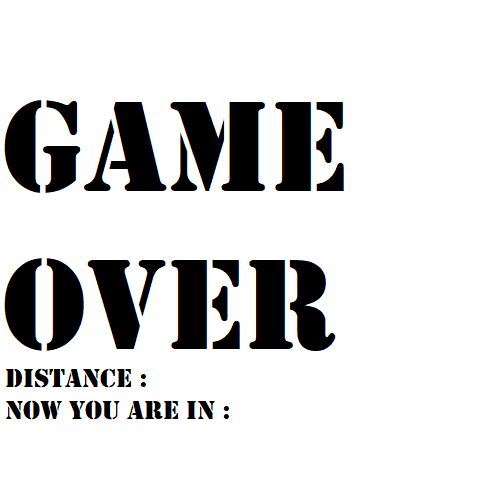
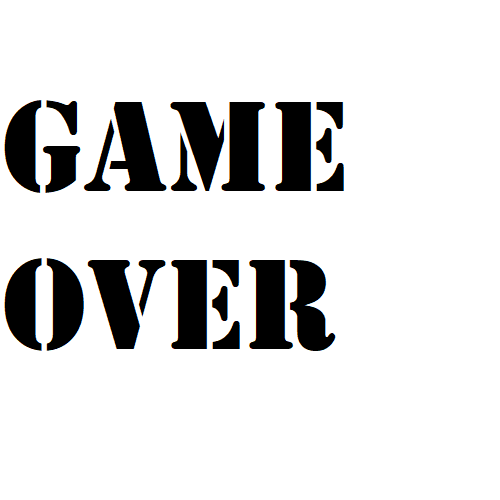
бомба

Changed region(s): [[0.0, 0.72, 0.48, 0.84]]

diff --git a/mane.py b/mane.py
@@ -56,15 +56,16 @@ class End(pygame.sprite.Sprite):
         self.rect = self.image.get_rect()
         self.rect.x = -600
         self.rect.y = 0
+        self.image.fill('white', (0, 360, 350, 150))
         font = pygame.font.Font('Australianflyingcorpsstencilsh.ttf', 30)
-        string_rendered = font.render(distance, True, pygame.Color('black'))
+        string_rendered = font.render('Distanse:' + distance, True, pygame.Color('black'))
         intro_rect = string_rendered.get_rect()
-        intro_rect.x = 154
+        intro_rect.x = 0
         intro_rect.y = 358
         self.image.blit(string_rendered, intro_rect)
-        string_rendered = font.render(str(dest), True, pygame.Color('black'))
+        string_rendered = font.render('City: ' + str(dest), True, pygame.Color('black'))
         intro_rect = string_rendered.get_rect()
-        intro_rect.x = 238
+        intro_rect.x = 0
         intro_rect.y = 401
         self.image.blit(string_rendered, intro_rect)
 
@@ -107,9 +108,6 @@ def running_preview():
     group_preview = pygame.sprite.Group()
     pygame.mixer.music.load('data/autro.mp3')
     pygame.mixer.music.play(-1)
-
-    play = SimpleButton(group_preview, 500, 290, 600, 100, pygame.Color('white'), text='play new')
-    save = SimpleButton(group_preview, 500, 400, 600, 100, pygame.Color('white'), text='return to last save')
     mimapbtn = SimpleButton(group_preview, 500, 510, 600, 100, pygame.Color('white'), text='minimap')
     quitq = SimpleButton(group_preview, 500, 620, 600, 100, pygame.Color('white'), text='quit')
     pygame.display.flip()
@@ -145,8 +143,6 @@ def running_preview():
         trucks.update()
         trucks.draw(screen)
         draw_(screen, 'Truck simulator', width, height, delta_frame=10, width_frame=10)
-        play.draw(screen)
-        save.draw(screen)
         mimapbtn.draw(screen)
         quitq.draw(screen)
         clock.tick(10)
@@ -161,12 +157,11 @@ def running_preview():
 def running_minimap():
     def start_screen():
         intro_text = ['Выберите начальную точку:',
-                      ' moscow: 1',
+                      'moscow: 1',
                       'kazan: 2',
                       'saratov: 3',
                       'samara: 4',
                       'tyla: 5', 'penza: 6', 'piter: 7']
-
         fon = pygame.transform.scale(load_image('fon.jpg'), (width, height))
         screen.blit(fon, (0, 0))
         font = pygame.font.Font(None, 30)
@@ -201,6 +196,7 @@ def running_minimap():
                         return '7'
             pygame.display.flip()
             time_count.tick(FPS)
+
     size = width, height = 550, 690
     screen = pygame.display.set_mode(size)
     pygame.display.set_caption('simulator truck')
@@ -217,12 +213,14 @@ def running_minimap():
     piter = SimpleButton(dest, 500, 425, 40, 25, pygame.Color('yellow'), text='Piter', font_size=10)
     dests = {1: moscow, 2: kazan, 3: saratov, 4: samara, 5: tyla, 6: penza, 7: piter}
     with open('data/dest.txt', encoding='UTF-8') as f1:
-        f = [int(i.strip()) for i in f1.readlines()]
+        f = [i.strip() for i in f1.readlines()]
         f1.close()
-    if run_the_first_time and not f:
+    if not (f[-1]):
+        current_destination = dests[int(start_screen())]
+    elif run_the_first_time and not f:
         current_destination = dests[int(start_screen())]
     else:
-        current_destination = dests[f[-1]]
+        current_destination = dests[int(f[-1])]
     connected_destinations = {moscow: (piter, penza, samara, kazan),
                               kazan: (saratov, moscow),
                               saratov: (kazan, samara),
@@ -286,7 +284,7 @@ def running_level(filename):
         'emptyF': load_image('grass_fin.png'),
         'rock': load_image('rock.png'),
         'lava': load_image('lava.png'),
-        'tree': load_image('tree.png', -1)
+        'tree': load_image('tree.jpg', -1)
     }
     player_image = load_image('truck1.png', -1)
 
@@ -294,6 +292,7 @@ def running_level(filename):
     all_sprites = pygame.sprite.Group()
     tiles_group = pygame.sprite.Group()
     player_group = pygame.sprite.Group()
+    bomb_group = pygame.sprite.Group()
 
     def start_screen():
         intro_text = ["ЗАСТАВКА", "",
@@ -340,7 +339,7 @@ def running_level(filename):
             for event_1 in pygame.event.get():
                 if event_1.type == pygame.QUIT:
                     runing = False
-                    return EXIT_FROM_GAME
+                    terminate()
                 if event_1.type == pygame.KEYDOWN:
                     if event_1.key == pygame.K_9:
                         pygame.mixer.music.pause()
@@ -372,6 +371,26 @@ def running_level(filename):
             val = ['.....' for _ in range(5)]
             val[0] = '@....'
             return val
+
+    class Bomb(pygame.sprite.Sprite):
+        image = load_image("bomb.png")
+        image_boom = load_image("boom.png")
+
+        def __init__(self, x, y, *group):
+            # НЕОБХОДИМО вызвать конструктор родительского класса Sprite.
+            # Это очень важно!!!
+            super().__init__(*group)
+            self.image = Bomb.image
+            self.rect = self.image.get_rect()
+            self.rect.x = x * tile_width
+            self.rect.y = y * tile_height
+
+        def update(self, *args):
+            if args and args[0].type == pygame.MOUSEBUTTONDOWN and \
+                    self.rect.collidepoint(args[0].pos):
+                self.image = self.image_boom
+            elif self.image != self.image_boom:
+                self.rect.y += 1
 
     class Tile(pygame.sprite.Sprite):
         def __init__(self, tile_type, pos_x, pos_y):
@@ -492,14 +511,15 @@ def running_level(filename):
                     finish_coord = (x, y)
                     Tile('emptyF', x, y)
                 elif level[y][x] == 'R':
+                    Tile('empty', x, y)
                     Tile('rock', x, y)
                 elif level[y][x] == 'T':
                     Tile('tree', x, y)
                 elif level[y][x] == '*':
                     Tile('lava', x, y)
                 elif level[y][x] == 'B':
-                    Bomb(x, y)
                     Tile('empty', x, y)
+                    Bomb(x, y, bomb_group, all_sprites)
                 else:
                     Tile('empty', x, y)
         # вернем игрока, а также размер поля в клетках
@@ -568,8 +588,10 @@ def running_level(filename):
             camera.update(level_x, level_y)
             for sprite in tiles_group:
                 camera.apply(sprite)
+            for sprite in bomb_group:
+                camera.apply(sprite)
         screen.fill((0, 0, 0))
-
+        bomb_group.update()
         all_sprites.draw(screen)
         player_group.draw(screen)
         ticks = str(pygame.time.get_ticks() / 1000)
@@ -584,20 +606,20 @@ def running_level(filename):
         pygame.display.flip()
         time_.tick(FPS)
 
+    dests_ = {'Moscow': 1, 'Kazan': 2, 'Saratov': 3, 'Samara': 4, 'Tyla': 5, 'Penza': 6, 'Piter': 7}
     if f:
         result = end_screen(str(player.get_distance()), filename[1])
         row = (str(player.get_distance()), filename[1], time_wid.get_text(), '1')
-        with open('dest.txt', 'w', encoding='UTF-8') as f:
-            print([filename[1] + '\n'])
-            f.writelines([filename[1] + '\n'])
+        with open('data\dest.txt', 'w', encoding='UTF-8') as f:
+            f.writelines([str(dests_[filename[1]]) + '\n'])
             f.close()
     else:
         result = end_screen(str(player.get_distance()), filename[2], win=False)
         row = (str(player.get_distance()), filename[2], time_wid.get_text(), '0')
-        with open('dest.txt', 'w', encoding='UTF-8') as f:
-            f.writelines([filename[2] + '\n'])
+        with open('data\dest.txt', 'w', encoding='UTF-8') as f:
+            f.writelines([str(dests_[filename[2]]) + '\n'])
             f.close()
-    with open('results.csv', 'w', newline='') as csvfile:
+    with open('results.csv', 'a', newline='') as csvfile:
         writer = csv.writer(
             csvfile, delimiter=';', quotechar='"',
             quoting=csv.QUOTE_MINIMAL)
@@ -629,6 +651,6 @@ while any((run_level, run_preview, run_minimap)):
         run_minimap, run_preview, run_level = None, None, None
         run_minimap = running_minimap()
     elif run_preview == EXIT_FROM_GAME or run_minimap == EXIT_FROM_GAME or run_level == BACK_TO_MENU:
-        pygame.quit()
+        terminate()
         break
     run_the_first_time = False

diff --git a/trucks.py b/trucks.py
@@ -43,27 +43,6 @@ def load_image(name, colorkey=None):
     return image
 
 
-class Bomb(pygame.sprite.Sprite):
-    image = load_image("bomb.png")
-    image_boom = load_image("boom.png")
-
-    def __init__(self, x, y, *group):
-        # НЕОБХОДИМО вызвать конструктор родительского класса Sprite.
-        # Это очень важно!!!
-        super().__init__(*group)
-        self.image = Bomb.image
-        self.rect = self.image.get_rect()
-        self.rect.x = x
-        self.rect.y = y
-
-    def update(self, *args):
-        if args and args[0].type == pygame.MOUSEBUTTONDOWN and \
-                self.rect.collidepoint(args[0].pos):
-            self.image = self.image_boom
-        elif self.image != self.image_boom:
-            self.rect.y += 1
-
-
 class Truck(pygame.sprite.Sprite):
     image = load_image("truck.png", -1)
 
